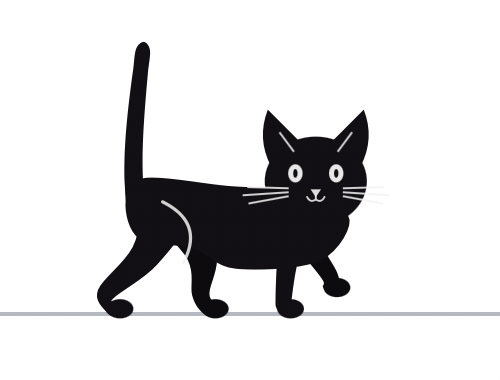
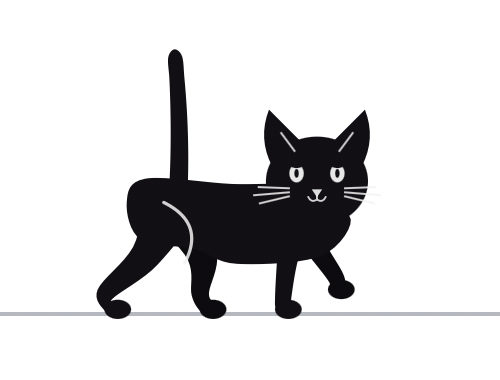
KiddyCat silhouette: calm lidded eyes, shorter whiskers, subtler paws
Final A/B polish round against the reference crops: upper lids flatten the
eye tops for the reference's calm gaze (tuned to not read sly), whiskers
shortened to reference length, paw ovals reduced from mittens to bumps;
dropped an attempted ruff arc that rendered as a grin on the walking head.

diff --git a/Sources/kiddyproof/KiddyCat.swift b/Sources/kiddyproof/KiddyCat.swift
@@ -620,7 +620,7 @@ final class KiddyCat {
             ctx.fillPath()
             // Paw: a soft rounded oval, slightly forward.
             let pw = s * 0.115
-            let pp = P(footX + 0.055, footY + 0.045)
+            let pp = P(footX + 0.04, footY + 0.04)
             ctx.fillEllipse(in: CGRect(x: pp.x - pw, y: pp.y - pw * 0.72, width: pw * 2, height: pw * 1.44))
         }
         drawLeg(front: true, far: true)
@@ -740,7 +740,7 @@ final class KiddyCat {
         ctx.setStrokeColor(accent.withAlphaComponent(0.85).cgColor)
         ctx.setLineWidth(s * 0.017)
         for side: CGFloat in [-1, 1] {
-            for (dy, len) in [(CGFloat(0.02), CGFloat(0.34)), (CGFloat(-0.05), CGFloat(0.38)), (CGFloat(-0.12), CGFloat(0.33))] {
+            for (dy, len) in [(CGFloat(0.02), CGFloat(0.26)), (CGFloat(-0.05), CGFloat(0.30)), (CGFloat(-0.12), CGFloat(0.25))] {
                 ctx.beginPath()
                 ctx.move(to: P(hcx + side * hw * 0.55, hcy + fy - 0.10 + dy * 0.5))
                 ctx.addLine(to: P(hcx + side * (hw * 0.55 + len), hcy + fy - 0.10 + dy))
@@ -764,6 +764,8 @@ final class KiddyCat {
                 ctx.fillEllipse(in: CGRect(x: e.x - ew, y: e.y - eh, width: ew * 2, height: eh * 2))
                 ctx.setFillColor(bodyColor.cgColor)
                 ctx.fillEllipse(in: CGRect(x: e.x - ew * 0.30, y: e.y - eh * 0.48, width: ew * 0.60, height: eh * 0.96))
+                // Upper lid: flatten the eye top for the reference's calm gaze.
+                ctx.fillEllipse(in: CGRect(x: e.x - ew * 1.1, y: e.y + eh * 0.58, width: ew * 2.2, height: eh * 1.2))
             }
         }
         // Nose: a tiny light triangle, point down.
